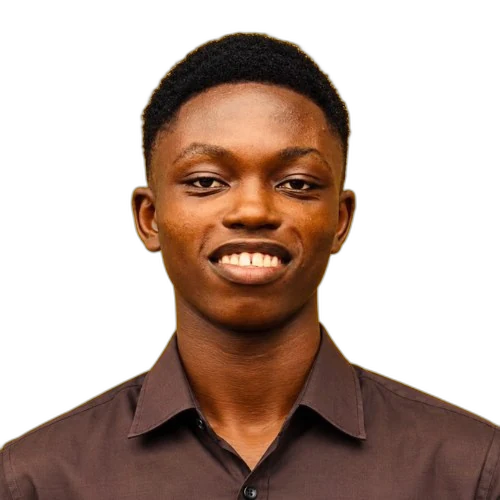
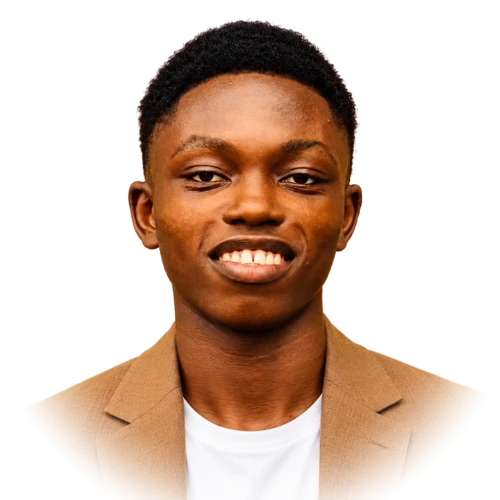
New profile photo: soft-edged cutout for hero and about, new share/schema image

diff --git a/index.html b/index.html
@@ -140,7 +140,7 @@
 
         <div class="hero-visual">
           <div class="hero-circle">
-            <img src="assets/images/profile-cutout.webp" alt="Wisdom, AI and automation specialist" width="500" height="500" />
+            <img src="assets/images/profile-cutout.webp?v=3" alt="Wisdom, AI and automation specialist" width="500" height="500" />
           </div>
           <div class="agent-log" aria-hidden="true">
             <div class="agent-log-bar"><i></i><i></i><i></i><span>agent.log</span></div>

diff --git a/about.html b/about.html
@@ -105,7 +105,7 @@
         <!-- Left: Image & tools -->
         <div class="about-image-col">
           <img
-            src="assets/images/profile-cutout.webp"
+            src="assets/images/profile-cutout.webp?v=3"
             alt="Wisdom, AI Developer and Automation Engineer"
             class="about-photo"
             onerror="this.src='assets/images/avatar-wisdom.svg';"
